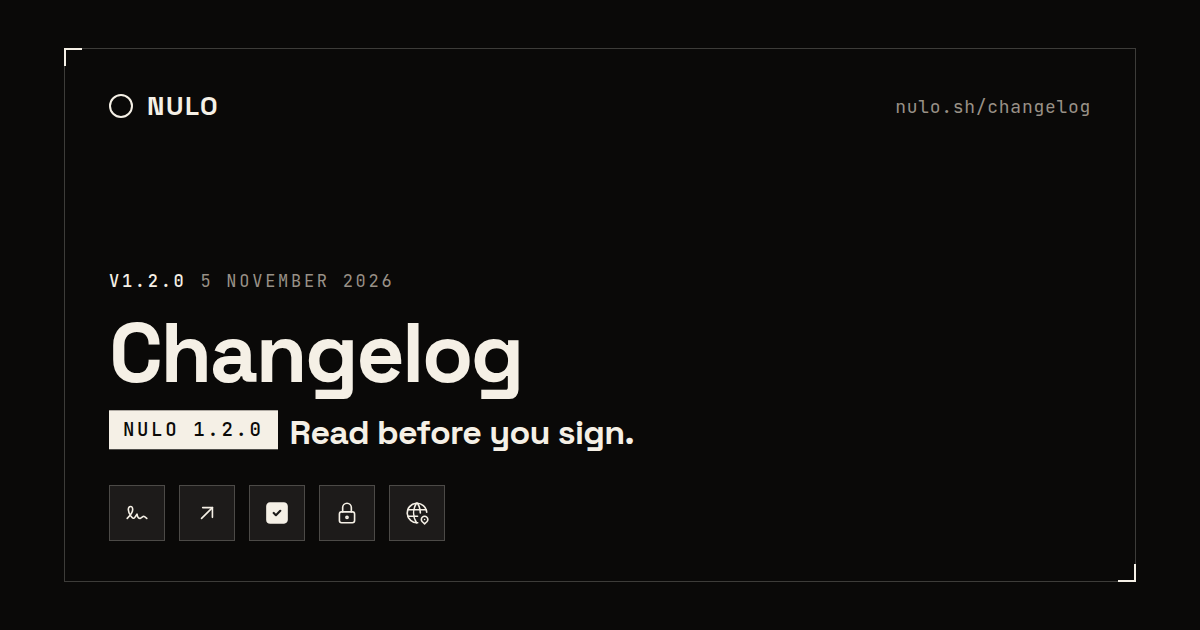
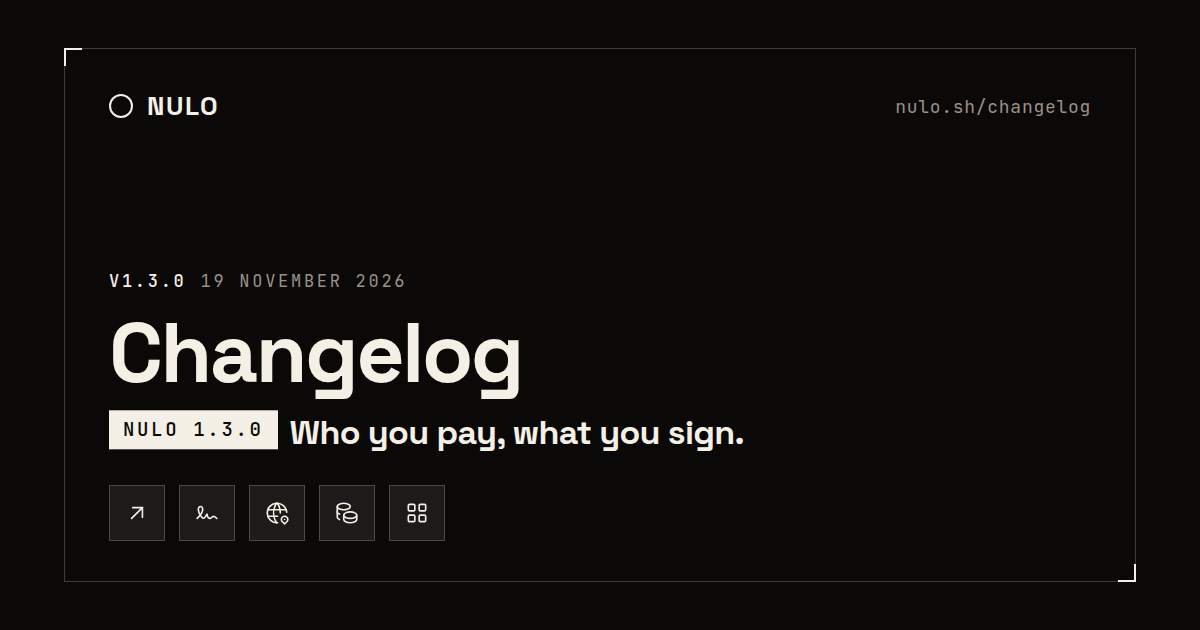
docs(release): the 1.3.0 notes and changelog page (#1873)
The 1.3.0 user-facing notes (`release-notes/1.3.0.md`), the top of its
changelog page (`apps/landing/content/changelog/1.3.0.toml`) and the two
link-preview cards `og:cards` renders (`1.3.0.og.png`, the re-rendered
`index.og.png`), drafted for the owner's sign-off before the `dev →
main` promote, as the release skill's § Release notes requires. No
wallet code changes. Draft until the owner signs the text.

## Sign-off

Signed. Decision page 192, item P192-02 ("The 1.3.0 release notes and
its changelog page"): approved, the default, with no note. The page
showed the full text at this PR's head 3a35622de (2,980 of 3,000
characters) and the changelog page and card captures. It was signed on
2026-11-19 at 18:19 UTC, and the owner wrote: "p192 signed". As that
item said, this PR stays a draft until the promote day, when the date
moves to that day. Each bullet's PR is now on dev: #1859, #1866, #1872
and #1875 (#1875 landing).

**Review points for the sign-off:**
- **The page's date** is the draft day, `2026-11-19`; the page and both
cards print it. It moves to the promote day: edit `date` in the TOML,
run `bun run --cwd apps/landing og:cards`, commit both cards.
- **Conditional bullets.** Drafted as shipped, each holds only if its
fix lands before the promote; a resume drops any that misses it:
- #1859, the unlock window for a locked discovery (waits on decision
page 191);
- #1872, the Shield link: its bullet, and in the legal bullet "the
[…]

diff --git a/implementations-plan/archive/notes-1-3-0/plan.md b/implementations-plan/archive/notes-1-3-0/plan.md
@@ -1,0 +1,125 @@
+---
+plan: notes-1-3-0
+tier: light
+status: delivered as a draft PR, awaiting the owner's sign-off on the text
+issues: none
+driver: claude-code
+claude_model: opus
+codex_model: sol
+code_review: off
+explainer: off
+eli5_mode: skipped (orchestrator-owned)
+budget: recon 2 Explore agents (sonnet); no plan audit round; one Codex pass (gpt-6.1-sol, high, read-only) over plan and diff after the build
+post_implementation_hardening: not scheduled
+base: origin/dev at 846f26379
+trunk: dev
+---
+
+## Outcome
+
+- **Date:** 2026-11-19. Planned and delivered the same day; one arc.
+- **Status:** delivered as draft #1873 against `dev`, whose merge archives this plan. It stays a draft until the owner signs the notes, the page on its Workers Builds preview and the cards; the orchestrator marks it ready.
+- **Shipped:** `release-notes/1.3.0.md` (2,980 of 3,000 code points after the resume below), `apps/landing/content/changelog/1.3.0.toml`, `1.3.0.og.png` and the re-rendered `index.og.png`. The bullets map to PRs in [recon.md](recon.md) and the PR body; #1870 and #1854 merged during the arc, and #1866, #1867, #1859 and #1872 were still open at close-out.
+- **Did not hold:** the brief's "Activity" and "the Authorizations page" (the wallet says History and Authwits, D3); the plan's first notes gate, `release-notes-run.ts check`, which reads only the root version (D9).
+- **Review:** no plan audit (lane proportion); Codex over the plan and the diff: round 1 seven findings, round 2 one, round 3 approve (§ Review verdicts).
+- **Known limits:** none.
+- **Open items:** none. The review points (the page's date, the conditional #1859 and #1872 bullets, the privacy version) are the owner's sign-off on #1873; the legal dates due at the promote are already steps in `BEFORE-LAUNCH.md` § 4.
+- **Lessons:** none promoted; the release skill already says the notes rule runs over every committed file, and the rest is in [lessons/phase-1.md](lessons/phase-1.md).
+- **Seeds retired:** the `/goal` and `/loop` below; they are no live instructions.
+
+# notes-1-3-0: the 1.3.0 release notes and changelog page, drafted for the owner's sign-off
+
+The owner, 2026-11-19: "I want to work towards the 1.3.0 release." The release skill (`.claude/skills/release/SKILL.md` § Release notes) has whoever prepares the promote draft `release-notes/X.Y.Z.md`, its changelog page and its link-preview card in one PR to `dev`; the owner signs off the text before the promote. One arc, one draft PR, docs and landing content only. Evidence: [recon.md](recon.md).
+
+## Outcome & Quality Bar
+
+- **For whom:** a person updating from 1.2.0, who meets the notes in the GitHub Release, on AMO, and on `nulo.sh/changelog/v1.3.0/`, which Home's What's new row opens once after the update (F6); and the owner, who signs the text.
+- **Excellent:** (1) every bullet is true at `846f26379` or at the named in-flight PR's head, and the PR body maps each bullet to its PRs; (2) the first bullets are what an existing user must know or do, in the wallet's own words for its screens (D3); (3) nothing reads as a promise the code does not keep; (4) every CI rule on the notes, the TOML and the cards passes first time.
+- **Good enough:** a person-noticeable change below the cut lands in "Also" or the fix count rather than its own bullet.
+
+## Assumptions
+
+**Facts** (verified 2026-11-19 at `846f26379`):
+- F1. `v1.2.0` (`7793112bc`) is an ancestor of HEAD: 96 commits, 91 first-parent, 35 `feat` subjects. No `type!:` subject, `BREAKING CHANGE:` footer or `Release-As:` in `git log v1.2.0..HEAD --format=%B`, nor in the five in-flight PRs' titles and bodies. `.release-please-manifest.json` holds `1.2.0`. So release-please picks 1.3.0.
+- F2. The rules are `scripts/release/release-notes.ts`, applied to every file in `release-notes/` by `release-notes.test.ts` (in `test:release`) and to the version the tree would release by `release-notes-run.ts check` (`pr-quick.yml`): non-empty, at most 3,000 code points, no line or item opening with `#`, no line of only `=` or `-`, no em dash, no `@SOURCE_COMMIT@`.
+- F3. The landing's `scripts/build-changelog.ts` refuses notes without their TOML and the reverse, an unknown key or glyph, an em dash and markup beyond `p`, `ul`, `ol`, `li`, `strong`, `em`, `code`. The TOML holds `version`, `date` (printed on the page and the card), `title`, `lede` and three to five `[[change]]` of `icon` (a `core/glyphs.ts` name), `area`, `title`, `line`. `og:cards` writes `1.3.0.og.png` and re-renders `index.og.png`; `og-card.test.ts` refuses a missing or stale card (`apps/landing/README.md` § Changelog pages).
+- F4. Legal since `v1.2.0` (`packages/legal/src/manifest.ts`): Terms 1.2.1 → 1.2.4, all patches; Privacy 1.2.9 → 1.3.1, where 1.3 is material, but acceptance derives from the Terms alone (`status.ts`, Terms § 23) and Settings → About only notes a policy change (`utils/legal-about.ts`). So nothing asks to be accepted again.
+- F5. The relay reaches an existing profile once per network kind at unlock, only while that network's primary is still its seed's endpoint (`wallet/services/unlock-conversions.ts:58-68`, `network/seeds.ts:189-197`); Testnet and Mainnet seeds carry it (`seeds.ts:70,88`). A Mainnet-kind row still named "Alpha V6" or "Mainnet" takes "Alpha" unless the profile already has a network so named (`seeds.ts:109-111,202-207`).
+- F6. Home's What's new row shows on a stable build whose minor is above the device's marker; an update writes the minor it came from, so 1.2.0 → 1.3.0 prompts, and the row opens `https://nulo.sh/changelog/v1.3.0/` (`utils/whats-new.ts`).
+- F7. In flight at plan time: #1870 (`c1383298`), #1854 (`9a47bd85`), #1866 (`454a02e0`, draft, stacked on #1854), #1867 (`a3f2bbce`; #1853 merged), #1859 (`bcb6a3a4`, waits on decision page 191). fee-juice-link-1 had no PR at plan time; during the arc it opened as #1872 (`47b2982d`): Mainnet's Fee Juice links open Shield, and privacy § 5.10 is rewritten as 1.4, material, for the owner to confirm (or 1.3.2).
+- F8. The wallet's own names: the nav tab reads HISTORY (`Navigation.vue:26`), the settings page "Connected Apps" (`settings-search.ts:82`), the authwit page "Authwits" under Settings → Developer → Account State (`account-state/index.vue:27`). A single private call with no account is still sent; only a public, utility, several-call or empty request without one is refused (`windows/execute/refusal.ts`).
+
+**Inferences:**
+- I1. Draft notes near 1.2.0's length (1,802 characters) stay well under the cap with the in-flight bullets in.
+
+**Asks** (to the orchestrator; working assumption in force):
+- A1. The TOML `date`: the draft day, `2026-11-19`. The page and both cards print it; at sign-off it moves to the promote day (one line, then `og:cards`). A review point in the PR body.
+- A2. The legal bullet follows #1872's head: privacy 1.4 and "the Shield link". If #1872 lands as 1.3.2 the number follows; if it misses the promote, the bullet reads 1.3.1 and drops the clause (on a resume). Settled on the resume: the owner, 2026-11-19, "1.3.2, a patch"; #1872's head (`4a30632ea`) prints 1.3.2, not material.
+- A3. The #1859 and #1872 bullets are drafted as shipped and marked conditional in the PR body; a resume drops either one that misses the promote.
+
+## UI impact
+
+Surfaces: `release-notes/1.3.0.md` (the GitHub Release's opening and AMO's version notes, at the release) and `nulo.sh/changelog/v1.3.0/` with its two cards (live once the Release PR's bump reaches `main`). No wallet screen changes. Sign-off: pending, by the owner on the draft PR's text and its Workers Builds preview, as the release skill requires; the owner's words that open this lane ("I want to work towards the 1.3.0 release.") start it and approve no text.
+
+## Architecture & Implementation (arc 1, branch `notes-1-3-0-a1` off this plan's commit)
+
+### Phase 1: the notes, the page, the cards ✓ (gate green; notes 2,952 code points after review)
+1. `release-notes/1.3.0.md`: a lead line, a blank line, `- ` bullets in 1.2.0's order (D2), each mapped to its PRs in [recon.md](recon.md).
+2. `apps/landing/content/changelog/1.3.0.toml`: `version = "1.3.0"`, `date` per A1, a title, a lede, five changes (D6).
+3. `bun run --cwd apps/landing og:cards`; commit what it adds and changes (`1.3.0.og.png`, `index.og.png`). Copy both cards to `~/.cache/nulo-backlog/notes-1-3-0/shots/`.
+4. Commit: `docs(release): the 1.3.0 notes and changelog page`.
+- **Gate**, in order: `bun run lint`; `bun test scripts/release/release-notes.test.ts` (D9); `bun run --cwd apps/landing scripts/build-changelog.ts`; `bun run --cwd apps/landing test` (`og-card.test.ts`, `changelog-pages.test.ts` included); `bun run check:plans` after staging. Pass: every command exits 0. No e2e (lane brief).
+
+### Phase 2: review, PR, close-out ✓ (Codex approve at round 3; draft #1873)
+1. One Codex pass (§ Post-implementation); fix what holds, commit, re-run Phase 1's gate.
+2. Push; `gh pr create --base dev --draft` (§ Delivery); `gh pr checks <n> --watch` once; read the Workers Builds preview URL off the PR and add it to the body.
+3. Close-out commits (§ Post-implementation); push; checks once more. Leave the PR a draft.
+
+## Security & Adversarial Considerations
+
+- **A false promise is the threat.** Text a person trusts ("nothing needs accepting", "a node you set yourself stays") that the code does not keep misleads about funds or privacy. Defence: every bullet traced to code or a PR head (F4-F8), and the Codex pass asked exactly that.
+- **Leaks:** no local path, account name, store launch day or secret in the files, the PR body or a commit. The notes name no endpoint URL; Shield is named by product, as the lane that routes to it does.
+- **Supply chain:** none. `og:cards` runs the Puppeteer Chrome `bun install` already fetched, offline but for its inline fonts (F3).
+
+## Decision ledger
+
+| # | Decision | Alternatives | Why |
+|---|---|---|---|
+| D1 | `1.3.0` | 1.2.1; 2.0.0 | F1 |
+| D2 | 1.2.0's order: what to know or do (the relay, the rename, What's new), Send, approvals, tokens and History, apps, Developer, Also, legal, fixes | by PR date; by package | the skill's "led by what an existing user must know or do"; 1.2.0 is the model |
+| D3 | The wallet's words: History, Connected Apps, Authwits, Alpha | the brief's "Activity", "the Authorizations page" | a person searches the screen for the word they read (F8) |
+| D4 | No bullet for tests, docs, CI, infra, the landing, the token list's files (#1778, #1780 draw nowhere yet) or the website newsletter (#1695) | a bullet each | they change no wallet screen (recon) |
+| D5 | "Over 30 fixes" | an exact count | 34 `fix` subjects since `v1.2.0` plus #1870; in-flight PRs can move it |
+| D6 | Five changes: Send (`send`), approvals (`signature`), the relay (`network-edit`), token pictures (`holdings`), app permissions (`app`) | the What's new row; Authwits | the five a person meets first; What's new is the page itself; Authwits is a Developer page |
+| D7 | `OWNER-ASKS.md` holds no ask: the text's sign-off is the draft PR, by the lane's design | an ask per review point | the lane routes the whole text to the owner; A1-A3 are review points in the body |
+| D9 | Phase 1's gate runs `release-notes.test.ts`, which checks every file in `release-notes/` | `release-notes-run.ts check` (the plan's first gate) | the run script checks only the root `package.json` version, 1.2.0 until the Release PR, so it never reads `1.3.0.md`; deviation found in Phase 1 |
+| D8 | The PR opens and stays a draft | ready (the implementer brief) | the lane brief and the spawn message: the owner signs the text before it is ready |
+
+## Review verdicts
+
+- **Codex round 1** (gpt-6.1-sol, high, over the plan and the arc diff): `changes needed`, seven findings, all accepted after checking the tree. (1) The relay: a return needs two passing checks, and it is a new recipient of requests (privacy § 5.12): the bullet states who runs it and when Nulo uses it. (2) Dollars show only where a price is shown (`SendReviewSheet.vue:193`), and the fee warning's fix is paying from private Fee Juice or a link to get some (`FeeSettingsCard.vue:513-514`). (3) The app chip carries no seal (`contract-chip.ts:141`) and a seal means "Nulo knows this contract", not safety (`:35`). (4) Allow every site also reveals the version (`every-site.ts:5`). (5) #1859 covers discovery and continues with the app's request, not always the connect window. (6) Authwits: only call-shaped rows name an action, and the check reads confirmed grants; Contracts: the explorer link does not apply everywhere. (7) The What's new row stays until dismissed. Applied in shorter words; for the cap, "say who pays the fee" and "every switch has a spoken name" were cut (the latter a `fix(a11y)` inside the fix count).
+- **Codex round 2** (resumed, verification): `changes needed`, one finding, accepted: "only while" broke on a send carried by the relay, whose receipt checks stay there until final (`packages/aztec-runtime/src/routing/routed-node.ts:291,592-593`).
+- **Codex round 3** (resumed): **approve**.
+- **Resume (dev still at `f336e0f22`)**: the legal bullet names privacy 1.3.2 (A2); one conditional bullet for the connection check's colour emoji (emoji-grid-1, no PR yet); trims kept every claim. Codex (gpt-6.1-sol, high) over the delta: round 1 `changes needed`, one finding, accepted: "so both grids look alike" promised what the fix cannot control (the app's font; a host with no colour-emoji face draws text glyphs, emoji-grid-1 plan § Security); round 2 the same finding against "not outlines or plain text"; round 3 **approve** on "Where your system has colour emoji, the connection check draws its grid in them."
+
+## Delivery
+
+- **Arc 1** = Phases 1-2, one PR against `dev`, opened as a draft after the Codex pass; the orchestrator marks it ready after the owner's sign-off. Title: `docs(release): the 1.3.0 notes and changelog page` (49 characters). No `Closes` line, no label: `release-notes/**` and `apps/landing/**` trip `quality-status` and the landing build.
+- **Body:** the notes and the page's text in full; the preview link; the range `v1.2.0..846f26379` (or the head it was refreshed to); the PRs behind each bullet, in-flight ones marked, #1859 and fee-juice-link-1 conditional (A3); the version reasoning (F1); the review points A1-A3; the gates; the Codex verdict; the owner's quote with "sign-off pending".
+
+## Post-implementation
+
+Execution contract: this plan plus `implementations-plan/README.md` § Post-implementation standard at `846f26379`, bounded work. Plan-specific values:
+- **Diff review:** `code_review: off`; absent.
+- **Review:** one pass, `~/.claude/skills/codex/scripts/run-codex.sh <prompt-file> <worktree> high read-only gpt-6.1-sol`, over this plan and the arc diff, with the two standard rules verbatim and the lane's three questions: is every bullet true at its cited PR, is anything a person would notice missing, does anything read as a promise the code does not keep. A second round only on a finding (resume). Logged in `lessons/phase-1.md` and Review verdicts.
+- **Close-out**, the PR's final commits, after merging `origin/dev` and reading `index.md` and `lessons.md`: the `## Outcome` block; `STATUS.md` deleted; `git mv implementations-plan/notes-1-3-0 implementations-plan/archive/notes-1-3-0` in its own commit, the index line to `archive/index.md`; `bun run check:plans` green after staging. Never merge, mark ready or tear down.
+
+## Seeds (draft)
+
+```
+/goal Arc 1 of implementations-plan/notes-1-3-0/plan.md delivered: Phases 1-2 marked ✓ with their gates reported in the transcript; one Codex pass (gpt-6.1-sol high) quoted, its findings resolved; a draft PR against dev titled "docs(release): the 1.3.0 notes and changelog page" with its checks reported (gh pr checks output); the close-out's archive move shown with git show --stat.
+```
+
+```
+/loop 15m Drive arc 1 of implementations-plan/notes-1-3-0 per its plan.md (plan.md is the state). Next unchecked step, Phase 1's gate after each edit, signed commits. One Codex pass, then the draft PR, checks once, close-out, checks again. Report and stop. Never merge or mark ready.
+```

diff --git a/implementations-plan/archive/notes-1-3-0/recon.md b/implementations-plan/archive/notes-1-3-0/recon.md
@@ -1,0 +1,28 @@
+# notes-1-3-0 recon
+
+Range `v1.2.0..846f26379` (first-parent, 91 commits). Two Explore agents (sonnet) read every non-test, non-docs PR body; the claims a bullet rests on were then checked in the tree (plan F4-F8). PR numbers below are the evidence for each bullet; the PR body cites them, the notes never do.
+
+## What a person notices, by bullet
+
+| Bullet | PRs | Notes |
+|---|---|---|
+| Nulo's relay, failover between endpoints | #1664, #1687, #1757, #1766 | relay appended at unlock only while the primary is the seed's (plan F5); #1664 alone wires nothing |
+| A default still named "Alpha V6" or "Mainnet" becomes "Alpha" | #1697 | skipped when the name is taken |
+| What's new row, About's link | #1724 | first release that carries it (plan F6) |
+| Send: the person first, the review, dollars on fees, payer balances, the privacy warning | #1795, #1797, #1811, #1813, #1838, #1844 | every send passes the review sheet |
+| A raised fee struck through; the toast steps aside | #1803, #1870 (in flight) | |
+| Approval windows: numbered steps, value tree and raw values, chips, seal, names | #1776, #1782, #1805, #1808, #1839, #1851 | |
+| Approval windows: failing check, who pays, refusals without an account, balance re-read | #1696, #1706, #1727, #1729, #1817, #1819, #1837 | a single private call without an account is still sent (plan F8) |
+| Token pictures; History's direction icons; one rounding rule | #1785, #1787, #1792, #1800, #1723, #1730, #1707 | #1778 and #1780 change only the list's files |
+| Connect window, every-site switch, hosts, the app's permission table and legend | #1722, #1734, #1762, #1854 (in flight), #1866 (in flight) | switch off by default, per profile |
+| Unlock window for a locked discovery | #1859 (in flight, conditional on decision page 191) | |
+| Authwits and Contracts under Developer → Account State | #1832, #1853, #1867 (in flight), #1840, #1843 | |
+| Mainnet's Fee Juice links open Shield | #1872 (in flight, conditional) | opened during the arc |
+| Also: endpoint list, "more below", request logs | #1741, #1768, #1822, #1823, #1824, #1739 | Receive's QR (#1709) and switch names (#1857) went into the fix count for length |
+| Connection check's colour emoji | emoji-grid-1 (no PR yet, conditional) | added on the resume |
+| Terms 1.2.4, Privacy 1.3.2 | #1757, #1765, the PRs that bumped 1.2.10 and 1.2.11, #1872 (in flight: 1.3.2, a patch, the owner's call) | nothing asks to be accepted again (plan F4) |
+| Fixes | the `fix` subjects in the range | 34 since `v1.2.0`, plus #1870 |
+
+## No bullet
+
+Tests, docs, CI and chores (#1669, #1677, #1684, #1685, #1686, #1690, #1705, #1738, #1761, #1765's docs half, #1769, #1770, #1774, #1781, #1783, #1791, #1812, #1818, #1848, #1852, #1869); internal refactors (#1674, #1726); the dApp-facing error code only (#1842); release tooling (#1694); landing-only (#1713, #1777); infra (#1689); the website newsletter's double opt-in (#1695); the token list's picture files, drawn nowhere until the token-picture PRs above (#1778, #1780).

diff --git a/release-notes/1.3.0.md b/release-notes/1.3.0.md
@@ -1,0 +1,19 @@
+Send starts from who you pay, approval windows name every step, and Alpha and Testnet gain a second endpoint.
+
+- Alpha and Testnet gain a second endpoint, Nulo's relay, run by the Developer: Nulo uses it while the endpoints before it fail, until the first passes its checks again, and a send it carried is checked there until final. A wallet on the default node gets it at its next unlock; a node you replaced stays as it is.
+- A default network still named Alpha V6 or Mainnet becomes Alpha at your next unlock, unless that name is taken.
+- After this update Home shows a What's new row until you dismiss it; Settings → About links these notes.
+- Send starts with who you pay, then one form with the fee above Review send. Every send opens a review: the recipient, the amount, what it makes public and the fee. Amounts, fees and Fee Juice balances show dollars where Nulo shows a price, and on a private send a fee that would name your account offers private Fee Juice: pay from it, or get some.
+- A raised fee shows the old figure struck through; an earlier send's toast steps aside during a review.
+- Approval windows number a send's calls as steps, each with its arguments field by field, raw values one press away. Contracts, tokens and the app are named chips, with a seal on a contract Nulo knows; your contacts and accounts appear by name.
+- Approval windows name the app's failing check and refuse up front what Nulo cannot send without an account. If two balance reads disagree, Nulo reads again, then warns rather than refusing.
+- Listed tokens show their picture across the wallet, History rows draw their direction, and list amounts follow one rounding rule.
+- The connect window says what Allow reveals. Allow every site, there or in Settings → Connected Apps, lets any site learn Nulo is installed, and its version, without asking; it starts off, and connecting and sharing an account still ask.
+- Where your system has colour emoji, the connection check draws its grid in them.
+- Connected Apps shows each app's site; an app's page lists its permissions per contract, as its request did, with an icon legend.
+- When an app looks for a locked Nulo, an unlock window opens and, once you unlock, carries on with the app's request.
+- Developer → Account State: an Authwits revoke shows in History; opening the page drops authwits the chain says are used or revoked. Contracts rows show both ids and, where it applies, an explorer link.
+- On Alpha, the links to get Fee Juice open Shield; other networks keep Unleashed.
+- Also: Settings → Networks shows endpoint order and status, with drag to reorder; the "more below" button reaches the Terms sheet, approval windows and onboarding; Developer mode saves a failed request's logs.
+- The Terms (1.2.4) and the Privacy Policy (1.3.2) describe the relay and failover, Allow every site and the Shield link. Nothing needs accepting again.
+- Over 30 fixes across send, fees, approvals, authwits, tokens, networks and restore.

diff --git a/implementations-plan/archive/notes-1-3-0/lessons/phase-1.md b/implementations-plan/archive/notes-1-3-0/lessons/phase-1.md
@@ -1,0 +1,8 @@
+# notes-1-3-0, phase 1: the notes, the page, the cards
+
+- First draft: 3,428 code points, over AMO's 3,000. Cut by tightening each bullet and dropping the Receive QR line; final 2,884.
+- `release-notes-run.ts check` reads only the version in the root `package.json` (1.2.0 here), so it passes without reading `1.3.0.md`. The file-wide rule is `release-notes.test.ts`; the gate runs that instead (plan D9).
+- `og:cards` rendered `1.3.0.og.png` and re-rendered `index.og.png` in one pass (load1 about 34); the fifth change title wraps to three lines inside its budget.
+- Codex pass (gpt-6.1-sol, high): round 1 `changes needed` (seven findings, all held: plan § Review verdicts), round 2 one more (the relay keeps a carried send's receipt checks), round 3 `approve`. Every finding was a condition the text left out (a price shown, a seal's meaning, a version revealed, a send pinned to its endpoint): read each "only", "every" and "once" against the code before handing notes over.
+- Applying the findings pushed the text to 3,132 code points; cuts brought it to 2,952. Margin is thin: dropping a conditional bullet frees 80 to 130.
+- Resume: the new emoji bullet took two Codex rounds, both on one word of promise ("look alike", then "not outlines"): a claim about rendering holds only under the platform's fonts, so the sentence carries that condition. Final 2,980 code points.

diff --git a/implementations-plan/archive/index.md b/implementations-plan/archive/index.md
@@ -593,6 +593,7 @@ Closed plans, one line each: `- [plan-name](plan-name/plan.md) — status — on
 - [switch-names-1](switch-names-1/plan.md) — completed — every settings and confirm switch is named through aria-labelledby by the title beside it, pinned page-wide and by a template scan (#1733)
 - [toast-hide-1](toast-hide-1/plan.md) — completed — an earlier send's Sending toast steps aside while a review sheet is open and comes back with the same words, built at the toast's owner (P190-01 = H, #1796)
 - [sweep-settle-1](sweep-settle-1/plan.md) — completed — the type-roles window sweep waits until no read in flight is drawn before it measures (#1794)
+- [notes-1-3-0](notes-1-3-0/plan.md) — completed — the 1.3.0 release notes, changelog page and cards, delivered as a draft for the owner's sign-off (2,960 of 3,000 code points)
 - [fee-juice-link-1](fee-juice-link-1/plan.md) — completed — Mainnet's fee juice links open human.tech's Shield, every other network Unleashed's testnet app; privacy 1.3.2 says so (#77)
 - [teardown-log-1](teardown-log-1/plan.md) — completed — six suites left cards mounted whose timers logged after the file ended, failing a green run; each now auto-unmounts (#1858)
 - [table-legend-1](table-legend-1/plan.md) — completed — a legend line under the Details table names its six icons (P186-01 = E2)

diff --git a/implementations-plan/archive/notes-1-3-0/lessons/phase-0.md b/implementations-plan/archive/notes-1-3-0/lessons/phase-0.md
@@ -1,0 +1,6 @@
+# notes-1-3-0, phase 0: planning
+
+- No plan audit round and no Opus leg: the lane brief's Proportion section thins the light tier to one Codex pass over the plan and the diff after the build.
+- Recon: two Explore agents (sonnet), 35 PRs each, read PR bodies only. Their summaries were checked against the tree where a bullet rests on them (plan F4-F8). One of their reads did not hold as a bullet: #1778 and #1780 change only the token list's files, so they get none.
+- The brief's names did not hold for the screens: the wallet says History (not Activity) and Authwits under Settings → Developer → Account State (not "the Authorizations page"). The notes use the wallet's words (plan D3).
+- zsh reads `$r:legal` as the `:l` modifier; write `${r}:path` in a `git show` loop.

diff --git a/implementations-plan/archive/notes-1-3-0/OWNER-ASKS.md b/implementations-plan/archive/notes-1-3-0/OWNER-ASKS.md
@@ -1,0 +1,3 @@
+# notes-1-3-0: owner asks
+
+None. The whole text is the owner's to sign by the lane's design: the PR opens as a draft and is marked ready only after the owner signs the notes, the changelog page on its Workers Builds preview and the two cards. The PR body lists the review points that sign-off settles (plan A1-A3): the page's date, the privacy version if fee-juice-link-1 lands first, and the two conditional bullets.
